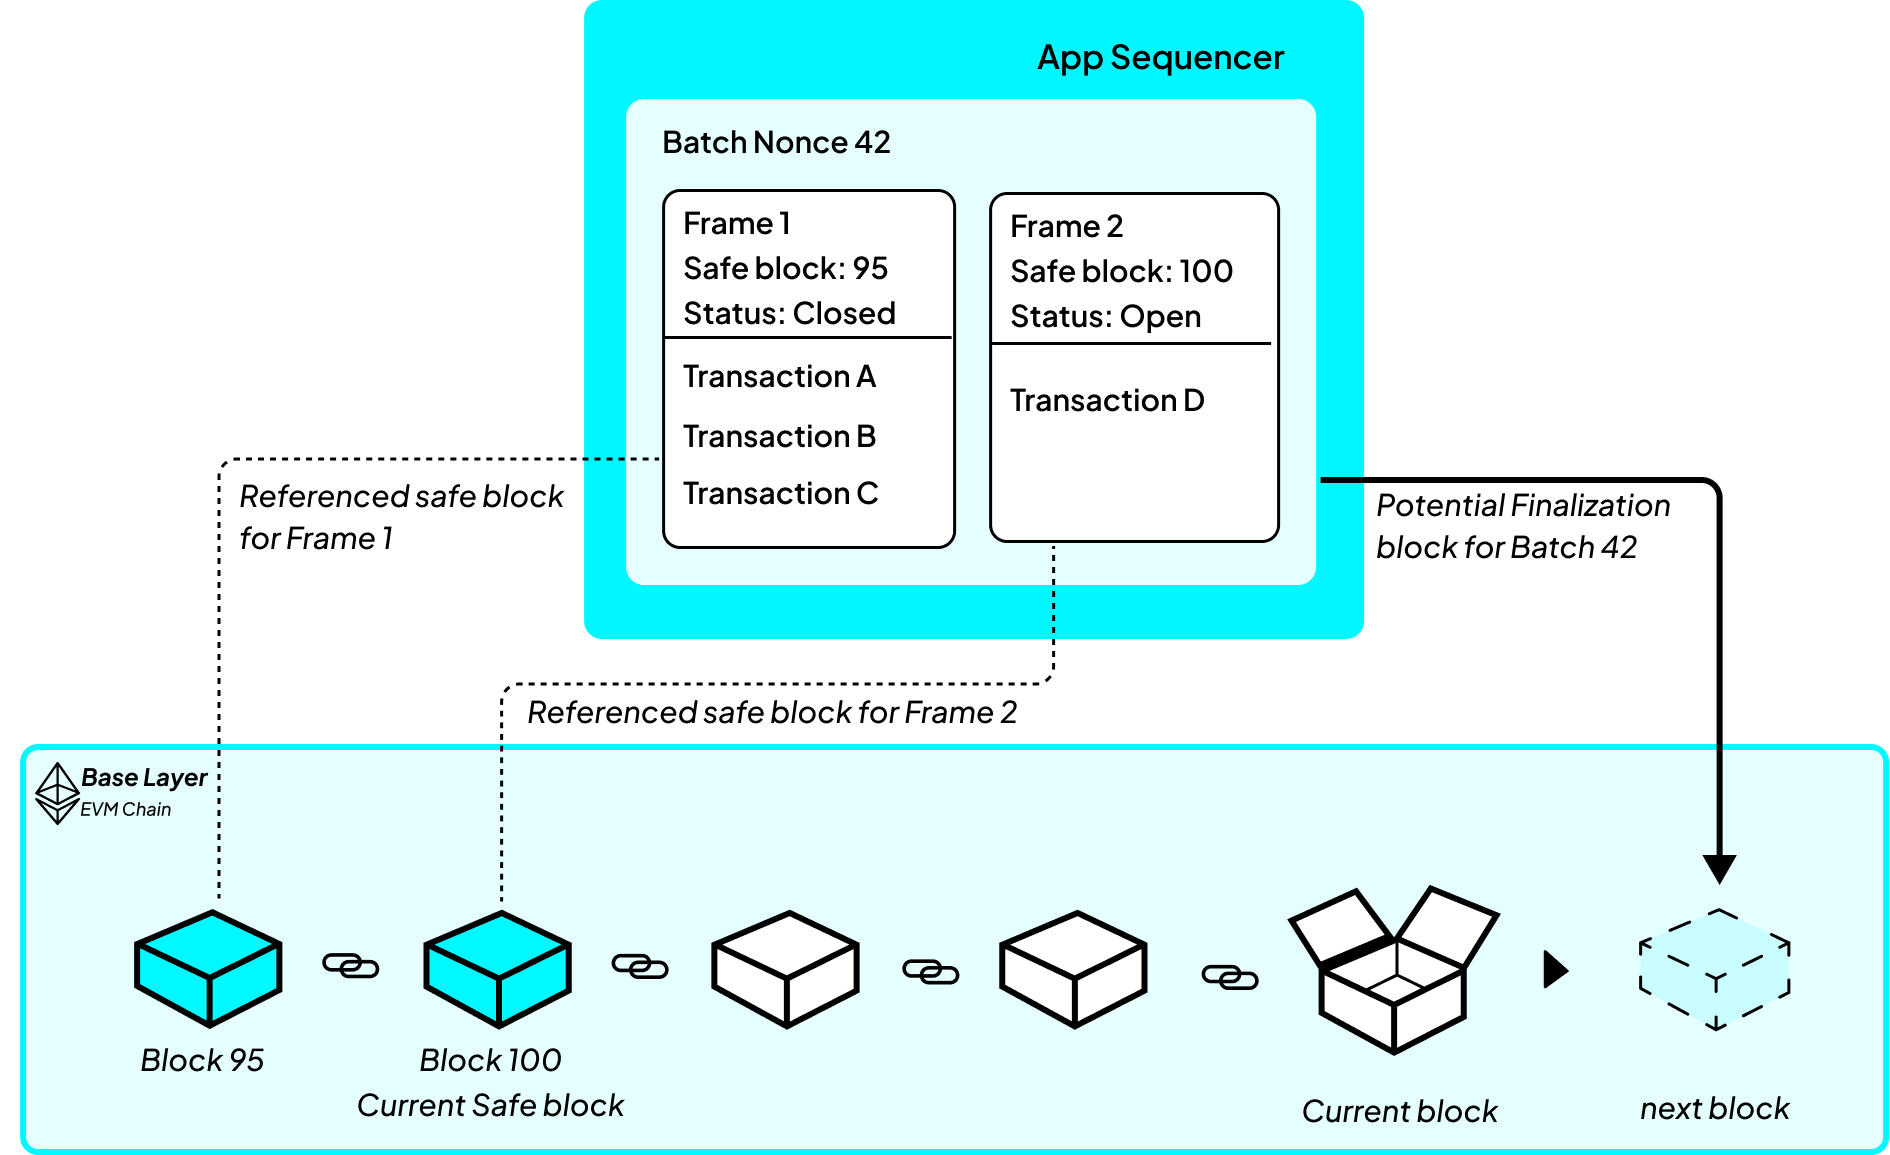
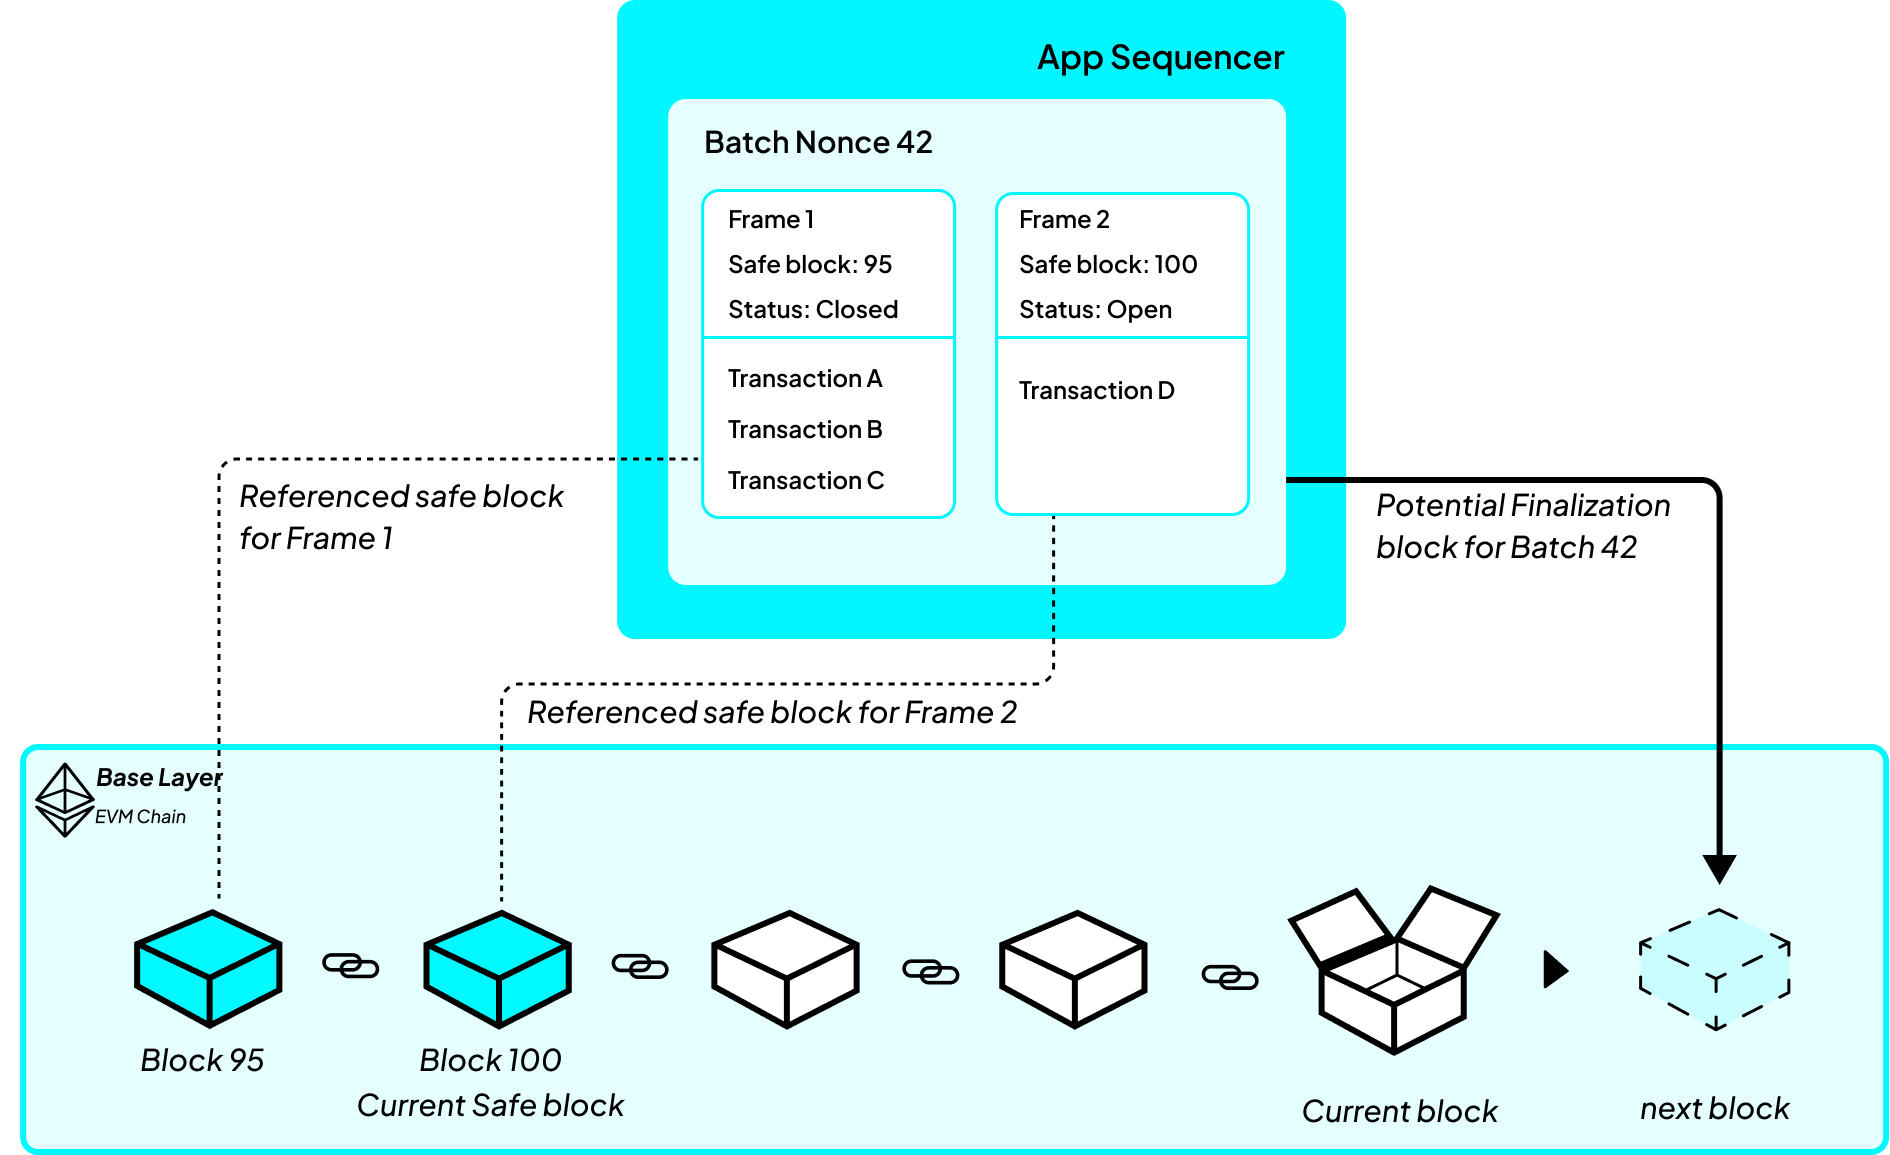
Update batch frame example and refresh App Sequencer diagrams

Changed region(s): [[0.281, 0.0, 0.7492, 0.561], [0.0, 0.6545, 0.1249, 0.7169]]

diff --git a/app-sequencer/concepts/batches-frames-safe-block.md b/app-sequencer/concepts/batches-frames-safe-block.md
@@ -26,22 +26,22 @@ This is why the sequencer can answer immediately and still be right. It applies 
 
 A batch could have carried a single safe block for everything in it. Frames exist so the number can move forward part way through.
 
-While the sequencer is filling a batch, the base layer keeps producing blocks and direct inputs keep arriving. Frames let one batch record that some transactions were evaluated at block 100 and later transactions at block 105. The batch can therefore remain open while the sequencer's base-layer view advances.
+While the sequencer is filling a batch, the base layer keeps producing blocks and direct inputs keep arriving. Frames let one batch record that some transactions were evaluated at block 95 and later transactions at block 100. The batch can therefore remain open while the sequencer's base-layer view advances.
 
 ![A sequencer batch with nonce 42 contains two frames. Each frame records its own safe block, status, and transactions, while references to the base-layer chain show how the safe block advances as the batch remains open.](../images/batch-frame-interleaving.png)
 
 ```
 Batch, nonce 42
-  frame 1   safe block 100   transactions A, B, C
-  frame 2   safe block 105   transaction D
+  frame 1   safe block 95  transactions A, B, C
+  frame 2   safe block 100 transaction D
 ```
 
 Run by the machine, that becomes:
 
 ```
-run direct inputs recorded up to block 100
+run direct inputs recorded up to block 95
 run A, B, C
-run direct inputs recorded up to block 105
+run direct inputs recorded up to block 100
 run D
 ```
 
